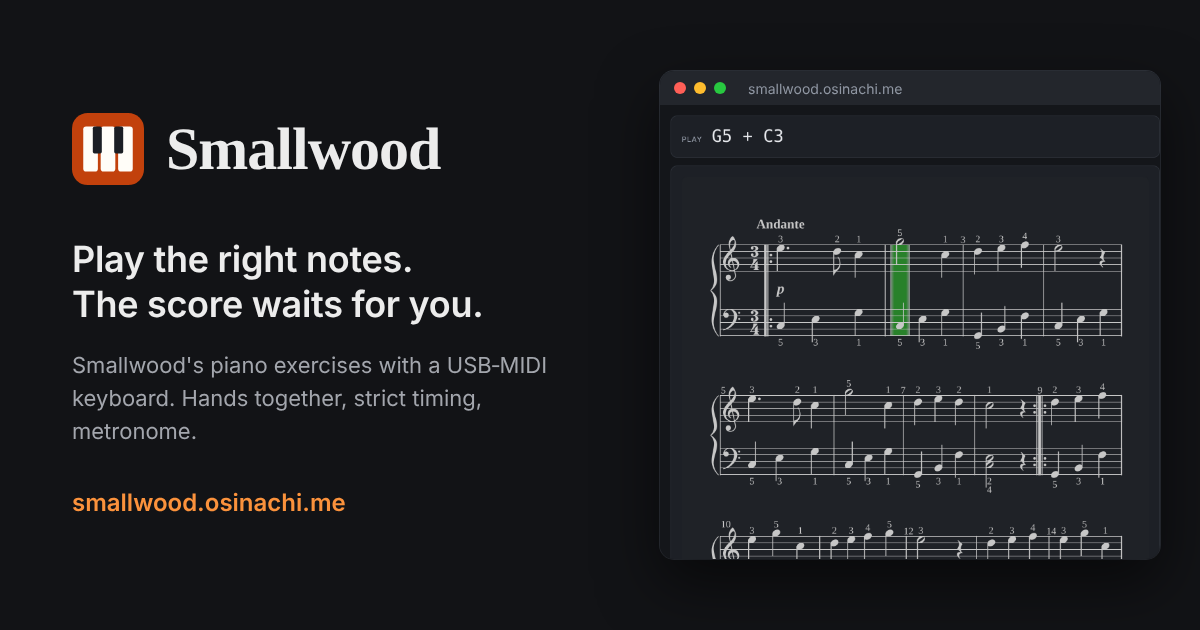
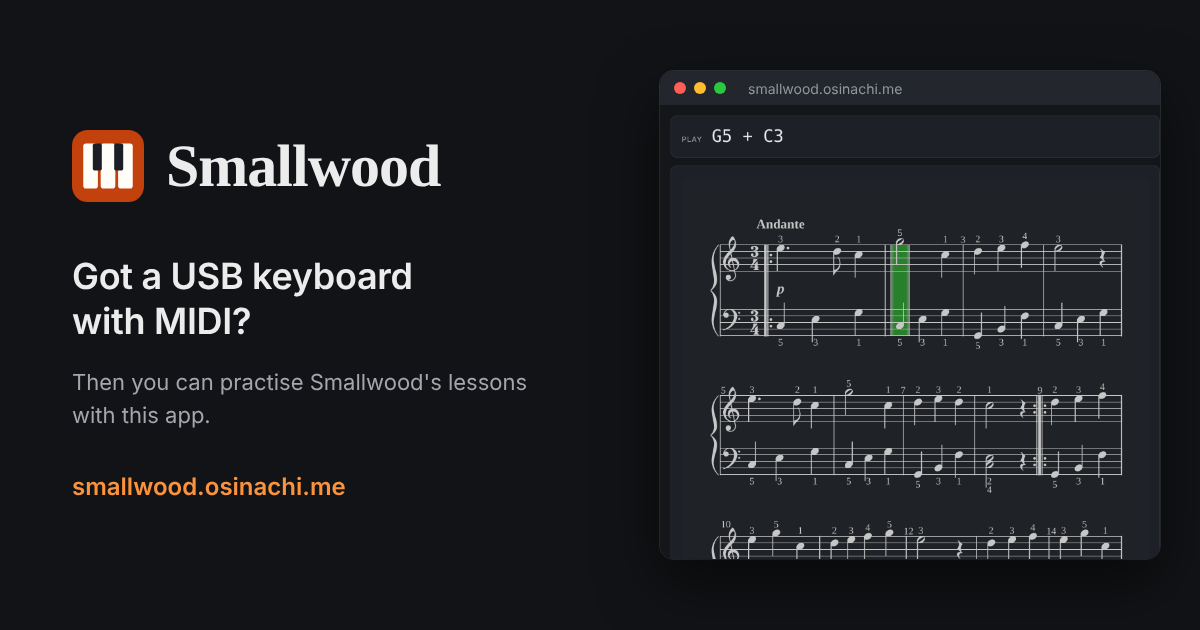
Use plainer wording on the preview card
Claude-Session: https://claude.ai/code/session_01WReHPQPpr8nDehyP4p9E2m

diff --git a/index.html b/index.html
@@ -12,7 +12,7 @@
 <meta property="og:type" content="website">
 <meta property="og:url" content="https://smallwood.osinachi.me/">
 <meta property="og:title" content="Smallwood Practice Tutor">
-<meta property="og:description" content="Practise Smallwood's piano exercises with a MIDI keyboard. The cursor waits for the right notes, with optional strict timing and a metronome.">
+<meta property="og:description" content="Got a USB keyboard with MIDI? Then you can practise Smallwood's lessons with this app.">
 <meta property="og:image" content="https://smallwood.osinachi.me/og.png">
 <meta property="og:image:width" content="1200">
 <meta property="og:image:height" content="630">
